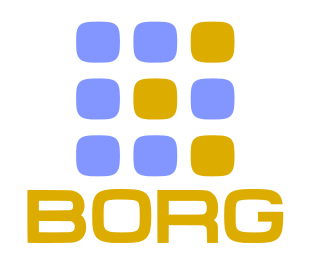
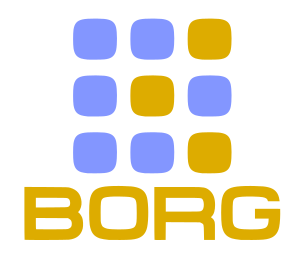
style: Adjust image in README file to fit width
- Adjusted the width of the image in the README file
- Other file changes not included in the summary due to large diffs

diff --git a/README.md b/README.md
@@ -2,7 +2,7 @@
 
 
 
-<img align="right" width="26%" src="./misc/borg_3.png">
+<img align="right" width="32%" src="./misc/borg_3.png">
 
 a wannabe ros2 command replacer
 ===
